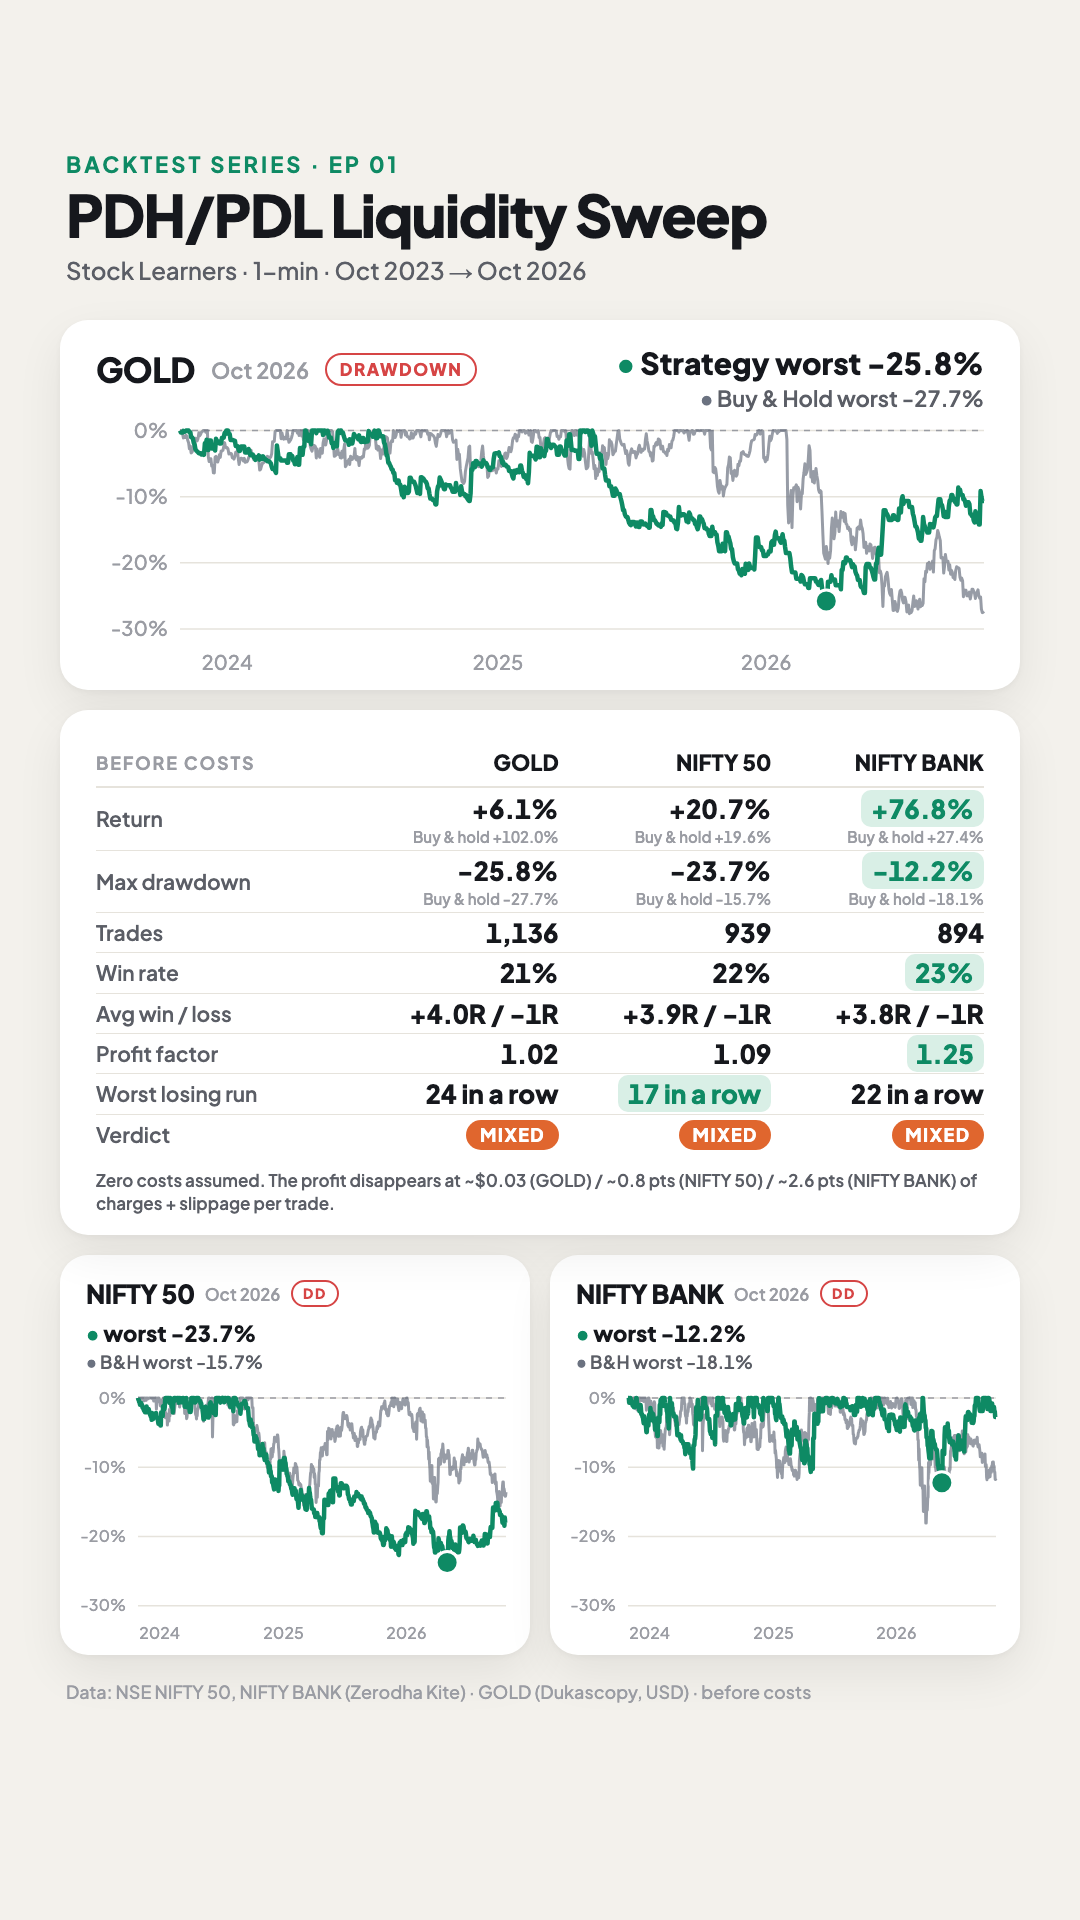
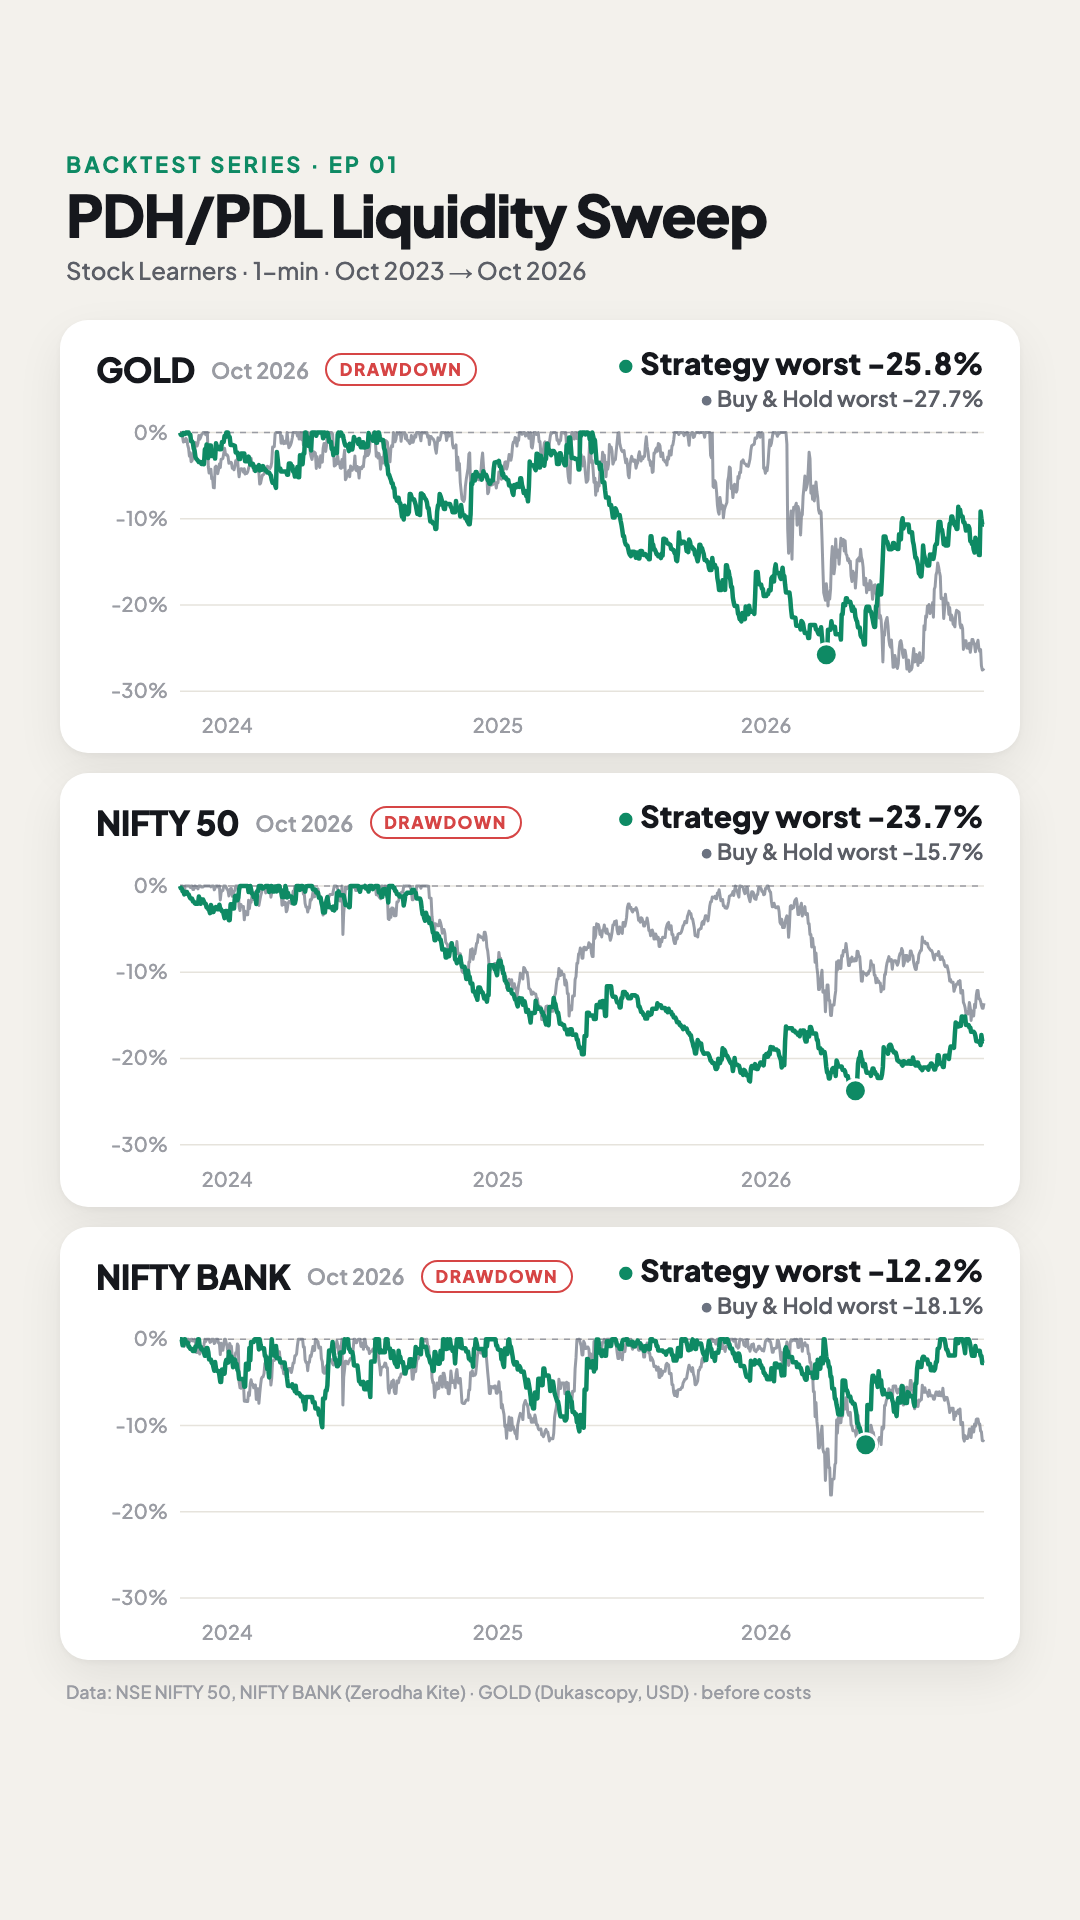
E01 video: drawdown phase shows all markets stacked, without the stats table

diff --git a/backtests/E01_2026-10-27_PDH-PDL-Liquidity-Sweep/README.md b/backtests/E01_2026-10-27_PDH-PDL-Liquidity-Sweep/README.md
@@ -7,9 +7,9 @@
 - **What we found:** about 21–23% wins at about 1:4. There's a small edge before costs, but it is smaller than the cost of trading.
 - **Markets:** spot gold (XAUUSD, the market used in the video), NIFTY 50 and BANK NIFTY, each tested separately on 1-minute candles.
 
-| Equity + stats | Drawdown + stats |
+| Equity + stats | Drawdown |
 |---|---|
-| ![Equity and stats](images/compare_results.png) | ![Drawdown and stats](images/compare_drawdown.png) |
+| ![Equity and stats](images/compare_results.png) | ![Drawdown](images/compare_drawdown.png) |
 
 ## Results (26 Oct 2023 → 26 Oct 2026, 1-minute, before costs, same starting capital)
 

diff --git a/backtests/_TEMPLATE/README.md b/backtests/_TEMPLATE/README.md
@@ -6,9 +6,9 @@
 - **Creator's claim:** <what the video promises>
 - **What we found:** <one line>
 
-| Equity + stats | Drawdown + stats |
+| Equity + stats | Drawdown |
 |---|---|
-| ![Equity and stats](images/compare_results.png) | ![Drawdown and stats](images/compare_drawdown.png) |
+| ![Equity and stats](images/compare_results.png) | ![Drawdown](images/compare_drawdown.png) |
 
 ## Results (<period>, <timeframe>, before costs)
 <key numbers per instrument; full stats in results/*/summary.md>

diff --git a/README.md b/README.md
@@ -24,7 +24,7 @@ backtests/E01_<date>_<Strategy-Name>/
   strategy.py      the rules as code
   config.json      instruments, period, position sizing, parameters tested
   results/         summary.md · trades.csv (every trade) · equity.csv · stats.json · sensitivity.csv
-  images/          result cards (equity, drawdown, stats)
+  images/          result cards (equity + stats, drawdown)
 ```
 
 ## Run it yourself
